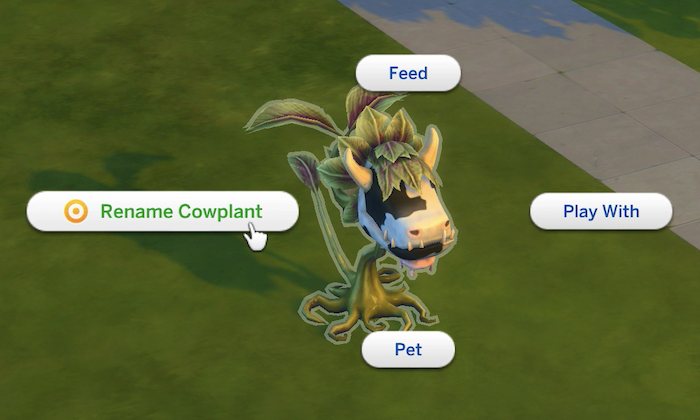
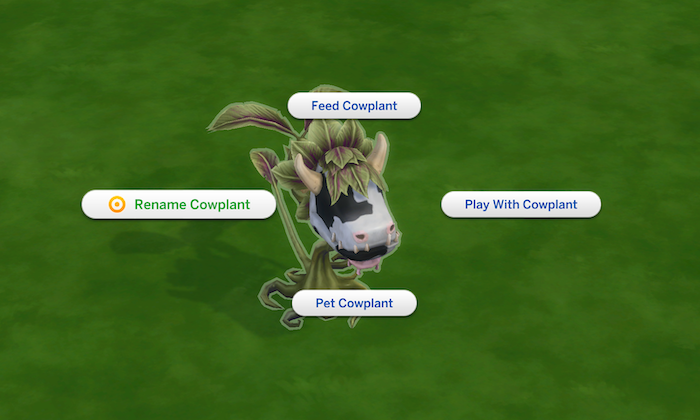
Update JFCP to v1.0 beta 2.

diff --git a/src/data.js b/src/data.js
@@ -15,10 +15,18 @@ export default {
             id: 'justiceforcowplants',
             name: '#JusticeForCowplants',
             status: Constants.status.updated,
-            date: 'June 13, 2020',
-            version: '1.0 beta 1',
+            date: 'July 8, 2020',
+            version: '1.0 beta 2',
             beta: true,
             versionDetails: [
+                {
+                  id: '1.0 beta 2',
+                  date: 'July 8, 2020',
+                  details: [
+                      'Added tooltip with custom name to cowplant.',
+                      'Added custom name to every cowplant interaction.'
+                  ]
+                },
                 {
                     id: '1.0 beta 1',
                     date: 'June 13, 2020',
@@ -53,7 +61,6 @@ export default {
                     ]
                 }
             ],
-            requiredPacks: [],
             download: `http://www.simfileshare.net/download/1895244/`,
             video: `https://youtu.be/tnvhvNxIETk`
         }
